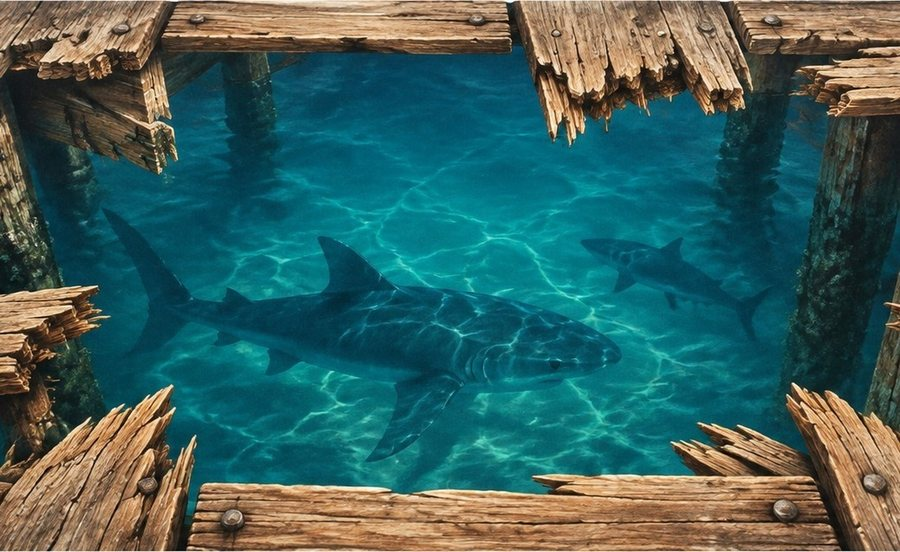
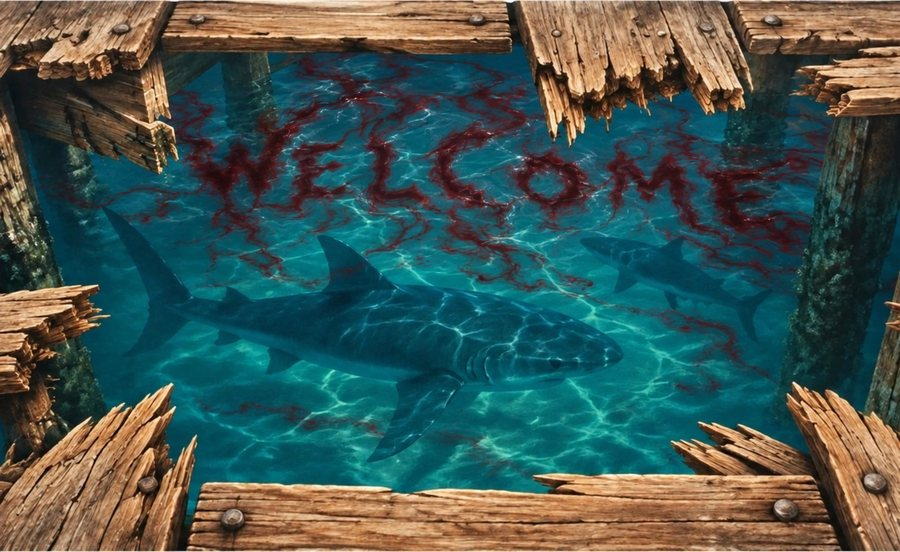
Welcome mats: Chum replaces Under the Pier
Bud's new Under the Pier mat, WELCOME written in blood drifting through
the water, replaces the old one (the only mat without WELCOME on it),
at the doormat's exact shape, and is named Chum.

Claude-Session: https://claude.ai/code/session_01VPDKP5EJZDEyqUkUM3kqQb

diff --git a/needles-studio.html b/needles-studio.html
@@ -1,5 +1,5 @@
 <!-- ============================================================
-     VERSION: V400
+     VERSION: V401
      ============================================================
      THE ONE LINE THAT SAYS WHICH BUILD YOU ARE LOOKING AT.
 
@@ -4786,7 +4786,7 @@ function toggleWorkingImage(){
 // Two copies of a number is exactly how the marker rotted in the first place,
 // so they are not trusted to agree: .githooks/pre-commit moves both together
 // and REFUSES the commit if it ever finds them apart.
-const APP_VERSION='V400';
+const APP_VERSION='V401';
 try{ console.log('%cNeedles\u2019 Studio '+APP_VERSION,'color:#29a3ff;font-weight:700'); }catch(e){}
 
 function getDeviceId(){
@@ -13199,7 +13199,7 @@ const PREMADE_CATEGORIES={
     items:[
       {key:'rope-bridge',label:'Rope Bridge'},{key:'shaft',label:'The Shaft'},{key:'dog',label:'The Dog'},
       {key:'lava-pit',label:'Lava Pit'},{key:'crocodile',label:'Crocodile'},{key:'shark-pier',label:'Shark Pier'},
-      {key:'sharks-under-pier',label:'Under the Pier'},{key:'ice-hole',label:'Thin Ice'},{key:'dock-shallow',label:'The Dock'},
+      {key:'sharks-under-pier',label:'Chum'},{key:'ice-hole',label:'Thin Ice'},{key:'dock-shallow',label:'The Dock'},
       {key:'abandon-hope',label:'Abandon Hope'},{key:'pearly-gates',label:'Pearly Gates'},{key:'bear-trap',label:'Bear Trap'}
     ]},
   // Placemats: Bud's designs at the neoprene mat's print shape, 5610 x 3839
